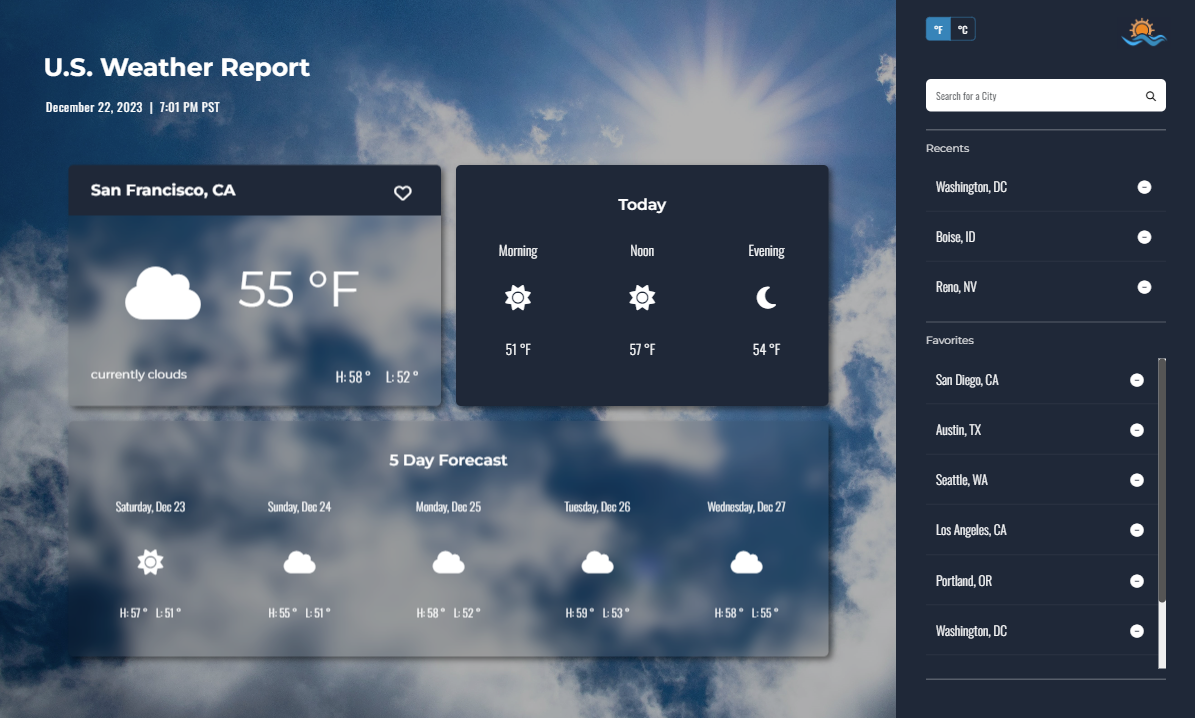
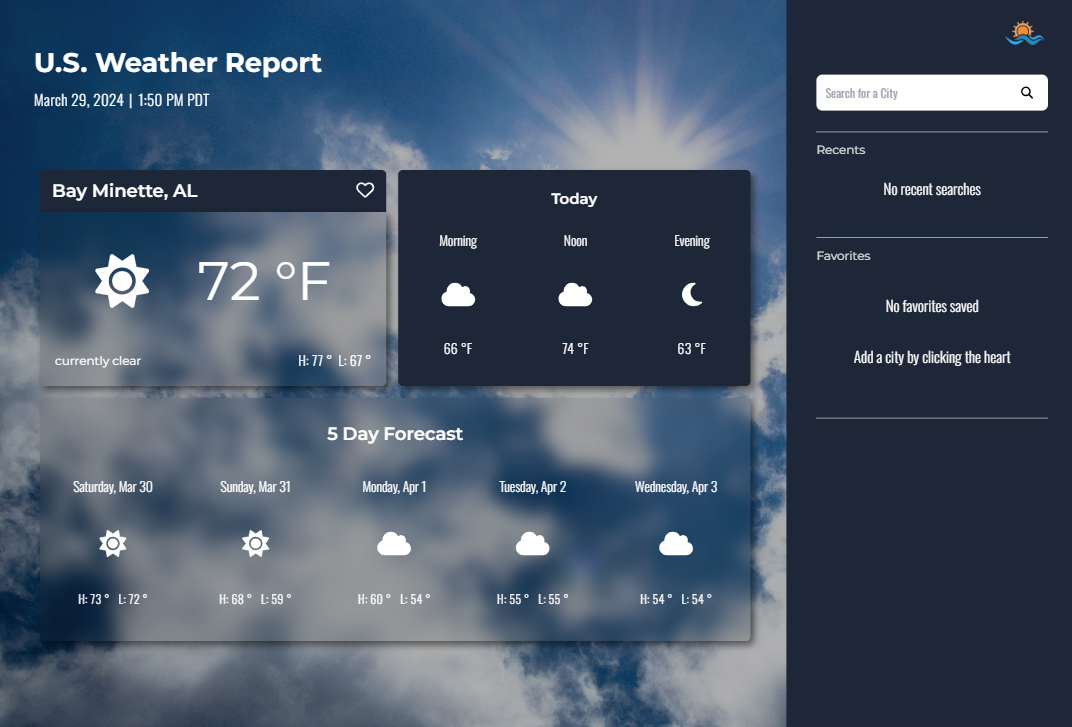
preview add

diff --git a/README.md b/README.md
@@ -24,10 +24,16 @@ The primary objective of this project was to rebuild a weather application with 
 ---
 
 
-> ## Peer Review:
-> 
-> **Name**: Michael Heckerman
+## Website Preview
 
+![alt text](./preview.png)
+<p align="right">Figure 1: Snapshot of rebuilt U.S. Weather Report</p>
+
+
+> ### Peer Review:
+> 
+> **Name:** Michael Heckerman
+> **Date/ Time:** 3/29/2024 10:46am
 > **Comment(s):** Downloaded the code to make sure it worked, it did. Tested the site on desktop where it worked fine. When I tested it on my phone it didn't fit properly, but it did function as intended other than the sizing issues.
 
 **Issue(s) Resolved**:
